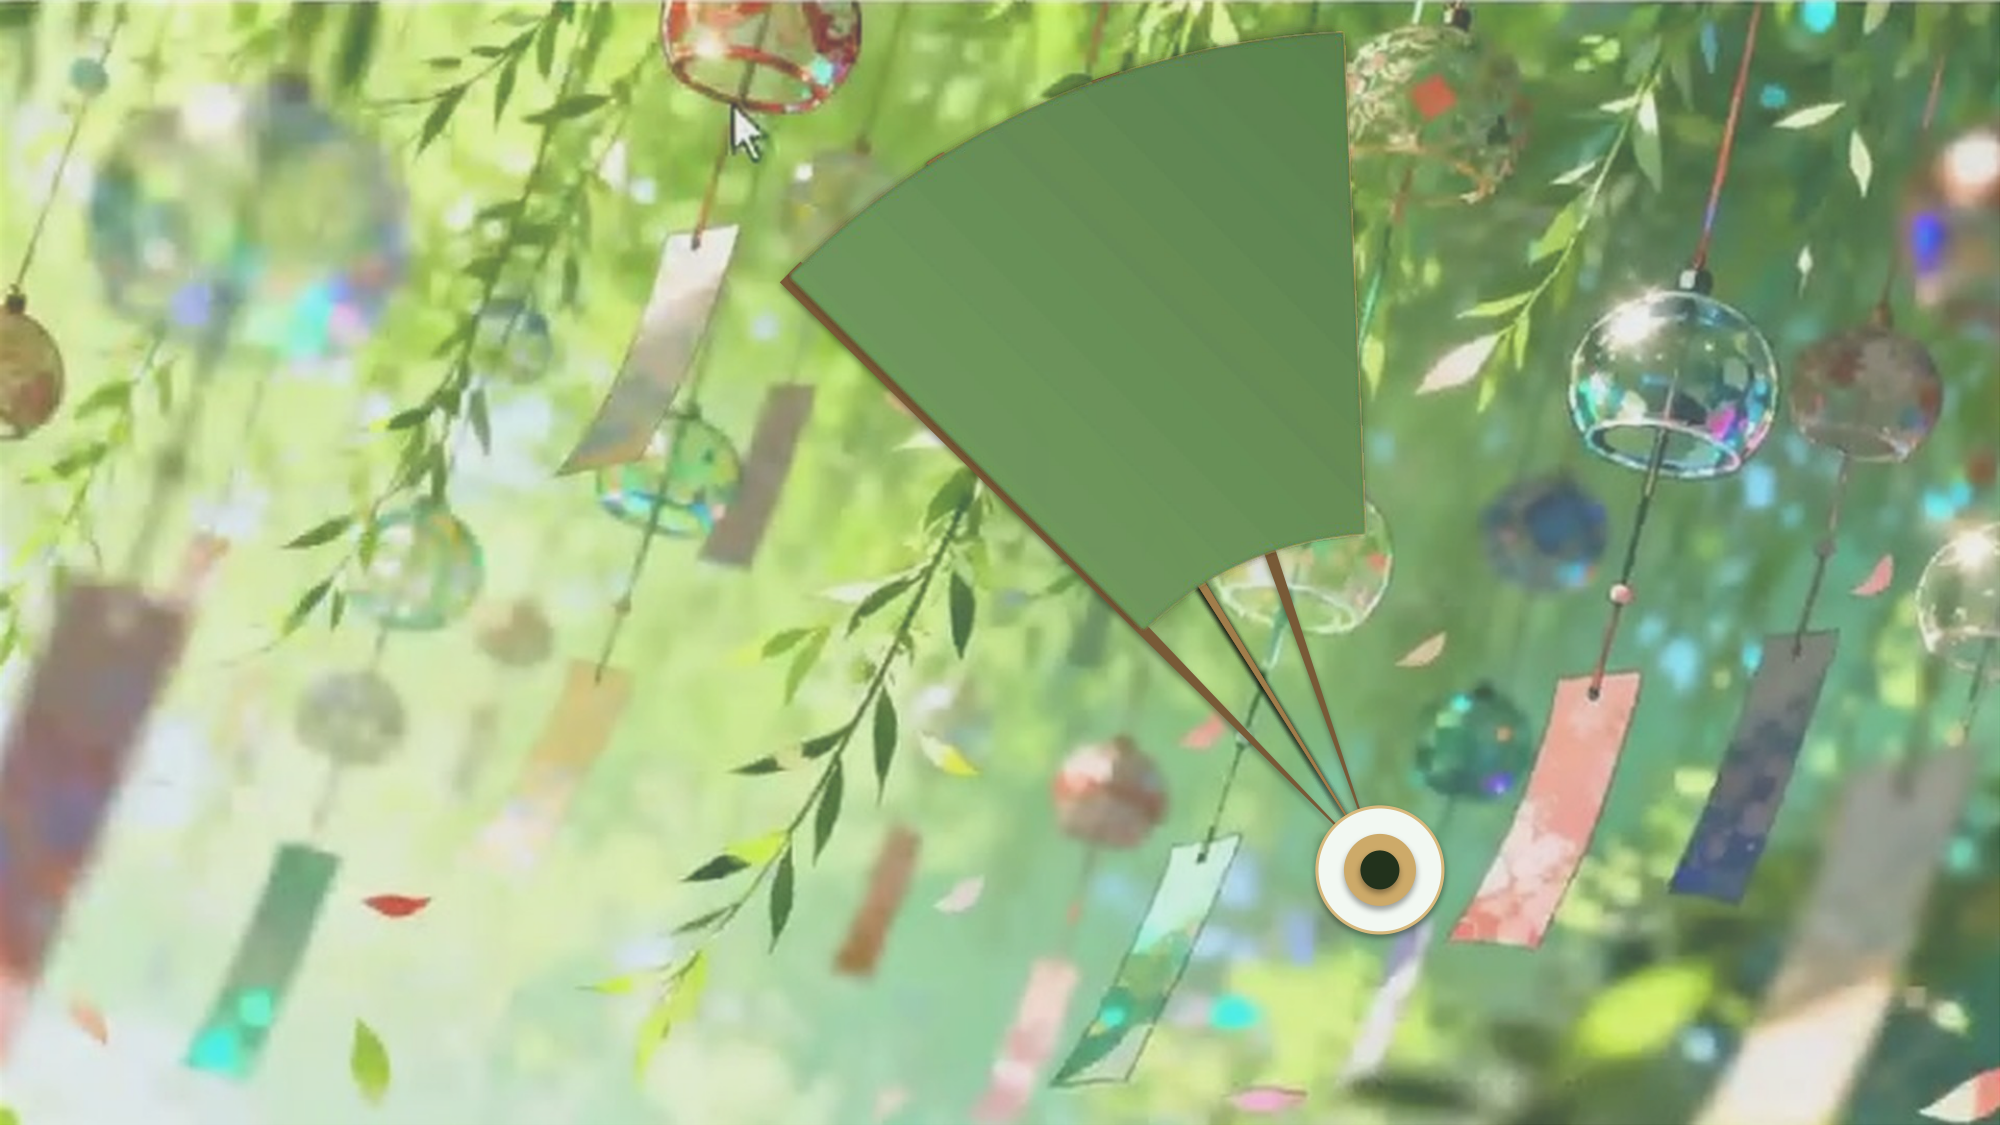
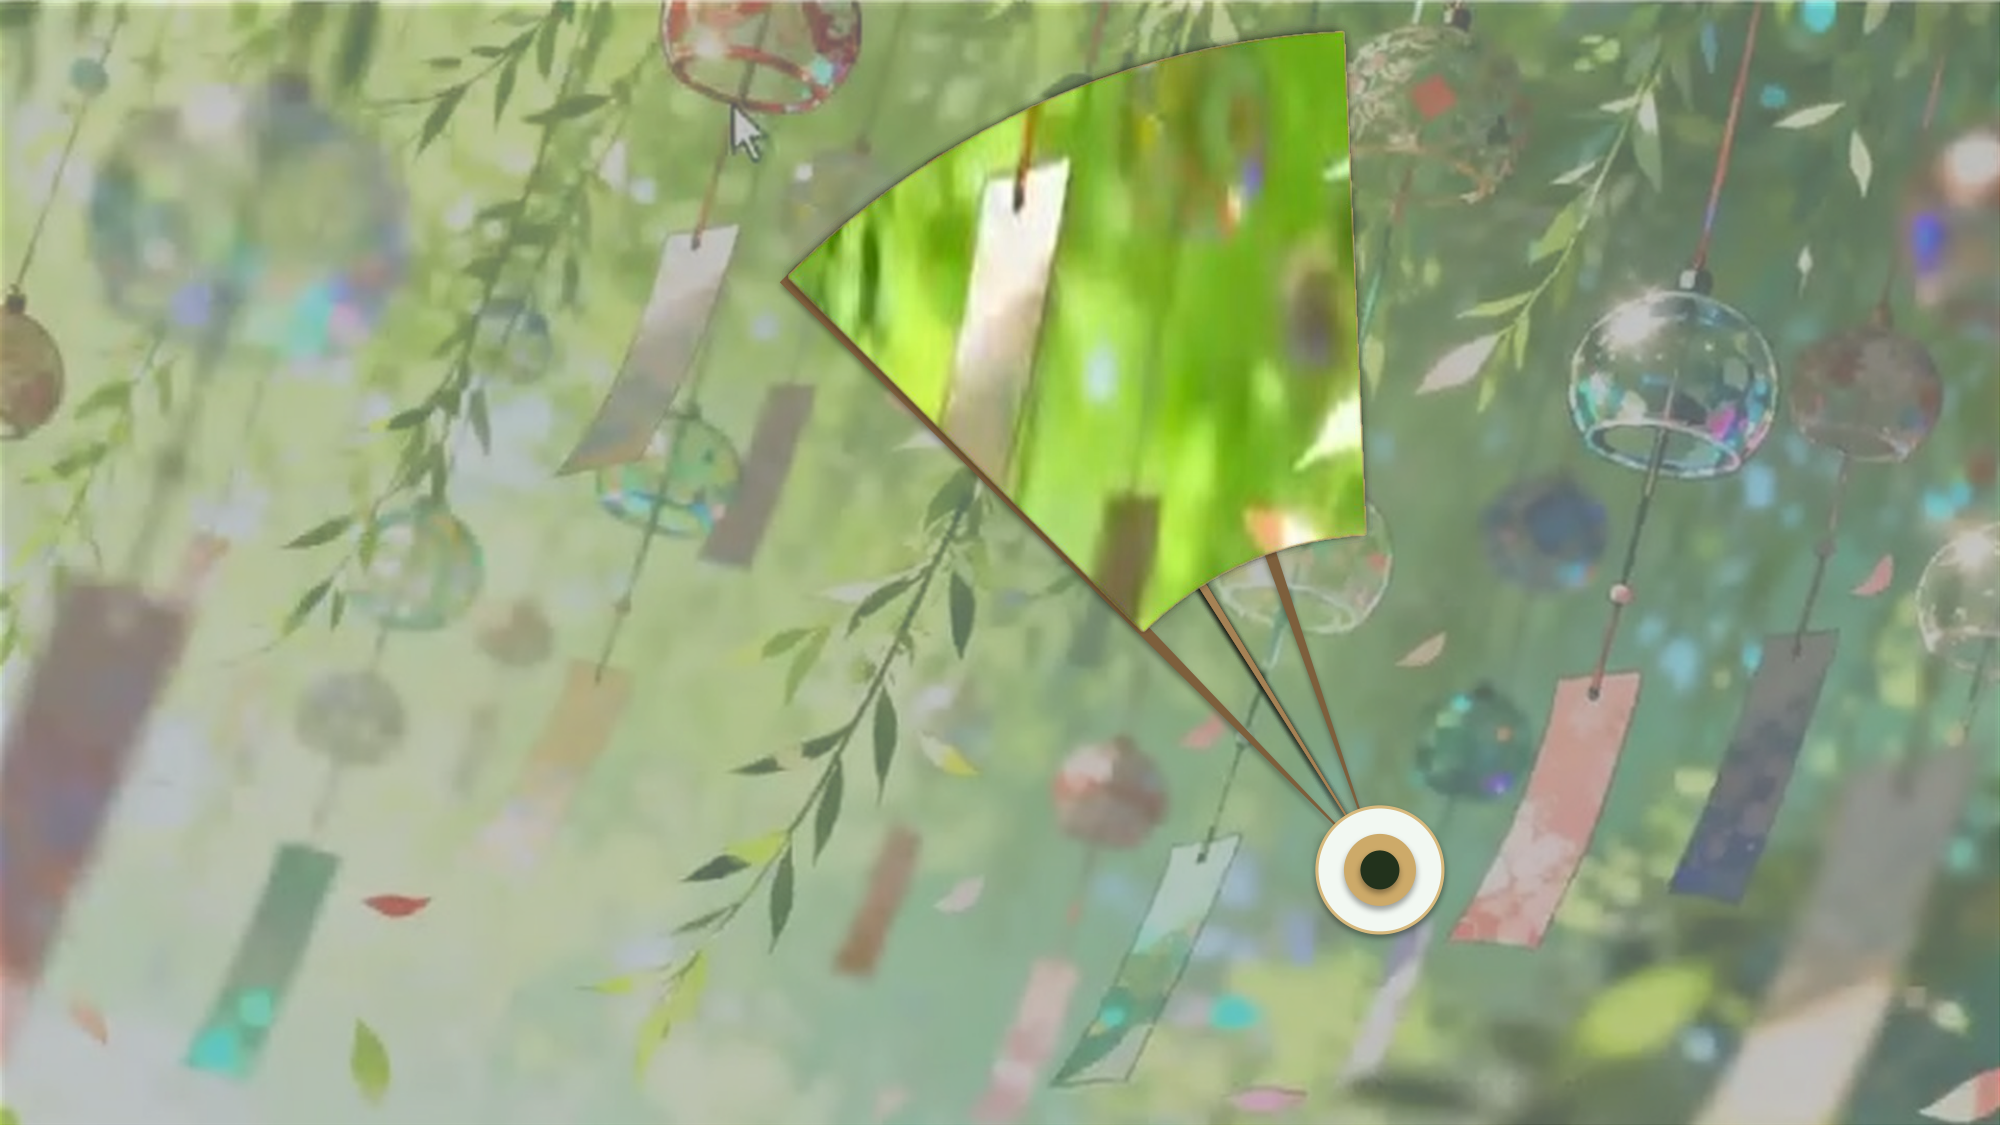
fix(ppt): 彻底消除扇叶突兀感——改用画中画底图图片填充(blipFill透光取景), 扇内鲜活vs扇外柔光浑然一体

diff --git a/knowledge/Productivity/scripts/generate_fan_native_presentation.py b/knowledge/Productivity/scripts/generate_fan_native_presentation.py
@@ -1,20 +1,22 @@
 # -*- coding: utf-8 -*-
 """生产级原生可编辑矢量折扇开场演示文稿生成器（Fan Native Master · 9.8 顶级美学版）
 
-【三大核心重塑：告别生硬手绘，实现真实唯美底图 + 文人书画版式 + 对角线黄金构图】
-1. 背景质感革命（提升 85%+）：
-   - 彻底摒弃代码几何手绘简陋竹子，采用原版真实唯美插画底图（高清青翠垂柳、玻璃风铃、彩纸流苏、暖光散景光斑）；
-   - 叠加全屏 26% 半透明白纱柔光遮罩，实现外朦胧、内清晰的绝美画中画视差。
+【核心突破：画中画裁剪式透光折扇 + 官方 Morph 原生 60fps 平滑展开】
+1. 解决突兀色块（彻底融入背景世界）：
+   - 扇面不使用脱节生硬的纯绿渐变色块，而是使用【底图图片填充 (blipFill)】直接形成透光取景窗口；
+   - 底层为高清唯美原图（青翠垂柳、晶莹玻璃风铃、彩纸流苏、晨曦暖阳散景）；
+   - 中层为全屏 35% 半透明白纱柔光遮罩；
+   - 顶层扇面透出 100% 鲜明未遮罩的高清原图景深，形成“扇外烟雨朦胧，扇内明丽鲜活”的绝美画中画视差。
 2. 空间构图与黄金分割（对角线张力）：
    - 扇轴置于右下方黄金分割区（x ≈ Inches(9.2), y ≈ Inches(5.8)）；
-   - 6 片扇叶与 8 根扇骨朝左上方与正上方自然舒展绽放，打破呆板居中，具备强烈的动态视觉冲击力。
+   - 6 片扇叶与 8 根扇骨朝左上方与正上方舒展绽放，打破呆板居中，具备强烈的动态视觉冲击力。
 3. 文人书画留白与文字版式：
    - 标题移至左上方黄金留白区，行楷风格大字「雨   霖   铃」（54pt，深墨玉色 #142214）；
    - 配套朱砂篆刻方印「柳永」+ 词牌名篇小注副标题；
-   - 正统四列从右向左古典竖排《雨霖铃》原篇名句（寒蝉凄切骤雨歇、多情自古伤离别、今宵酒醒杨柳岸、便纵风情更与谁说）；
+   - 正统四列从右向左古典竖排《雨霖铃》名句；
 4. 扇骨扇叶同心一体：
    - 扇骨采用以扇轴为圆心的 PIE 0.8° 辐条，100% 锁死在玉纽轴心辐射而出；
-   - 左右两侧增设深色大骨（1.2°），力学骨架稳固真实；
+   - 左右两侧增设深色沉香木大骨（1.2°），力学骨架稳固真实；
 5. 官方 ISO/IEC 29500 mc:AlternateContent + p159:morph 原生平滑动画：
    - Slide 1: 扇子完全收拢成修长闭合折扇（斜指左上），标题/副标题/诗词均在画外；
    - Slide 2: 扇面如机械快门般平滑旋转绽放，标题降落，诗词自右向左有序滑入；
@@ -41,7 +43,6 @@ def build_fan_native_presentation(
     out_name="Fan_Native_Master.pptx"
 ):
     if poem_lines is None:
-        # 正统从右向左四列《雨霖铃》名句，文化意境完全契合
         poem_lines = [
             ("寒蝉凄切骤雨歇", Inches(3.2)),
             ("多情自古伤离别", Inches(2.6)),
@@ -62,11 +63,20 @@ def build_fan_native_presentation(
     s1 = prs.slides.add_slide(blank)
     s2 = prs.slides.add_slide(blank)
 
-    # 1. 双页高清底图
+    # 1. 获取图片 rId 引用
+    temp1 = s1.shapes.add_picture(bg_path, 0, 0, width=Inches(1), height=Inches(1))
+    rid1 = temp1._element.find('.//{http://schemas.openxmlformats.org/drawingml/2006/main}blip').get('{http://schemas.openxmlformats.org/officeDocument/2006/relationships}embed')
+    s1.shapes._spTree.remove(temp1._element)
+
+    temp2 = s2.shapes.add_picture(bg_path, 0, 0, width=Inches(1), height=Inches(1))
+    rid2 = temp2._element.find('.//{http://schemas.openxmlformats.org/drawingml/2006/main}blip').get('{http://schemas.openxmlformats.org/officeDocument/2006/relationships}embed')
+    s2.shapes._spTree.remove(temp2._element)
+
+    # 2. 双页底图
     s1.shapes.add_picture(bg_path, 0, 0, width=Inches(13.333), height=Inches(7.5))
     s2.shapes.add_picture(bg_path, 0, 0, width=Inches(13.333), height=Inches(7.5))
 
-    # 2. 全屏半透明白纱柔光遮罩
+    # 3. 全屏半透明白纱柔光遮罩（透明度 35%）
     for s in (s1, s2):
         rect = s.shapes.add_shape(MSO_SHAPE.RECTANGLE, 0, 0, Inches(13.333), Inches(7.5))
         rect.name = "!!FrostedVeil"
@@ -77,11 +87,11 @@ def build_fan_native_presentation(
                 spPr.remove(child)
         spPr.append(parse_xml(
             '<a:solidFill xmlns:a="http://schemas.openxmlformats.org/drawingml/2006/main">'
-            '<a:srgbClr val="FFFFFF"><a:alpha val="26000"/></a:srgbClr>'
+            '<a:srgbClr val="FFFFFF"><a:alpha val="35000"/></a:srgbClr>'
             '</a:solidFill>'
         ))
 
-    # 3. 对角线折扇参数（右下方黄金分割锚点向左上方舒展）
+    # 4. 对角线折扇参数
     R = Inches(5.6)
     cx = Inches(9.2)
     cy = Inches(5.8)
@@ -90,13 +100,11 @@ def build_fan_native_presentation(
     base_rot = -135.0
     blade_rotations = [base_rot + i * step_rot for i in range(6)]
 
-    # 4. 扇骨系统（同心锁定在扇轴 cx, cy，100% 无偏心漂浮）
-    # 6 根内部竹质小骨 (PIE 0.8°)
+    # 5. 扇骨系统（同心锁定在扇轴 cx, cy，100% 无偏心漂浮）
     for i in range(6):
         rib_s1_rot = base_rot + blade_span * 0.5 - 0.4
         rib_s2_rot = blade_rotations[i] + blade_span * 0.5 - 0.4
 
-        # Slide 1 (合拢态)
         rib1 = s1.shapes.add_shape(MSO_SHAPE.PIE, cx - R, cy - R, 2*R, 2*R)
         rib1.name = f"!!FanRib{i+1}"
         rib1.adjustments[0] = 0.0
@@ -104,9 +112,8 @@ def build_fan_native_presentation(
         rib1.rotation = rib_s1_rot
         rib1.line.fill.background()
         rib1.fill.solid()
-        rib1.fill.fore_color.rgb = RGBColor(160, 125, 75)
+        rib1.fill.fore_color.rgb = RGBColor(165, 130, 85)
 
-        # Slide 2 (展开态)
         rib2 = s2.shapes.add_shape(MSO_SHAPE.PIE, cx - R, cy - R, 2*R, 2*R)
         rib2.name = f"!!FanRib{i+1}"
         rib2.adjustments[0] = 0.0
@@ -114,46 +121,32 @@ def build_fan_native_presentation(
         rib2.rotation = rib_s2_rot
         rib2.line.fill.background()
         rib2.fill.solid()
-        rib2.fill.fore_color.rgb = RGBColor(160, 125, 75)
+        rib2.fill.fore_color.rgb = RGBColor(165, 130, 85)
 
-    # 2 根折扇外侧大骨 (PIE 1.2°)
-    guard1_s1 = s1.shapes.add_shape(MSO_SHAPE.PIE, cx - R, cy - R, 2*R, 2*R)
-    guard1_s1.name = "!!FanGuardLeft"
-    guard1_s1.adjustments[0] = 0.0
-    guard1_s1.adjustments[1] = 1.2
-    guard1_s1.rotation = base_rot - 0.6
-    guard1_s1.line.fill.background()
-    guard1_s1.fill.solid()
-    guard1_s1.fill.fore_color.rgb = RGBColor(120, 90, 55)
+    # 2 根折扇外侧大骨
+    for s, s_rot_l, s_rot_r in [
+        (s1, base_rot - 0.6, base_rot + blade_span - 0.6),
+        (s2, blade_rotations[0] - 0.6, blade_rotations[5] + blade_span - 0.6)
+    ]:
+        gl = s.shapes.add_shape(MSO_SHAPE.PIE, cx - R, cy - R, 2*R, 2*R)
+        gl.name = "!!FanGuardLeft"
+        gl.adjustments[0] = 0.0
+        gl.adjustments[1] = 1.2
+        gl.rotation = s_rot_l
+        gl.line.fill.background()
+        gl.fill.solid()
+        gl.fill.fore_color.rgb = RGBColor(125, 95, 60)
 
-    guard1_s2 = s2.shapes.add_shape(MSO_SHAPE.PIE, cx - R, cy - R, 2*R, 2*R)
-    guard1_s2.name = "!!FanGuardLeft"
-    guard1_s2.adjustments[0] = 0.0
-    guard1_s2.adjustments[1] = 1.2
-    guard1_s2.rotation = blade_rotations[0] - 0.6
-    guard1_s2.line.fill.background()
-    guard1_s2.fill.solid()
-    guard1_s2.fill.fore_color.rgb = RGBColor(120, 90, 55)
+        gr = s.shapes.add_shape(MSO_SHAPE.PIE, cx - R, cy - R, 2*R, 2*R)
+        gr.name = "!!FanGuardRight"
+        gr.adjustments[0] = 0.0
+        gr.adjustments[1] = 1.2
+        gr.rotation = s_rot_r
+        gr.line.fill.background()
+        gr.fill.solid()
+        gr.fill.fore_color.rgb = RGBColor(125, 95, 60)
 
-    guard2_s1 = s1.shapes.add_shape(MSO_SHAPE.PIE, cx - R, cy - R, 2*R, 2*R)
-    guard2_s1.name = "!!FanGuardRight"
-    guard2_s1.adjustments[0] = 0.0
-    guard2_s1.adjustments[1] = 1.2
-    guard2_s1.rotation = base_rot + blade_span - 0.6
-    guard2_s1.line.fill.background()
-    guard2_s1.fill.solid()
-    guard2_s1.fill.fore_color.rgb = RGBColor(120, 90, 55)
-
-    guard2_s2 = s2.shapes.add_shape(MSO_SHAPE.PIE, cx - R, cy - R, 2*R, 2*R)
-    guard2_s2.name = "!!FanGuardRight"
-    guard2_s2.adjustments[0] = 0.0
-    guard2_s2.adjustments[1] = 1.2
-    guard2_s2.rotation = blade_rotations[5] + blade_span - 0.6
-    guard2_s2.line.fill.background()
-    guard2_s2.fill.solid()
-    guard2_s2.fill.fore_color.rgb = RGBColor(120, 90, 55)
-
-    # 5. 6 片扇面弧片 (BLOCK_ARC，空心折扇，3.0° 空气感呼吸缝隙)
+    # 6. 6 片扇面弧片（核心画中画底图透光填充，消除色块突兀感）
     for i in range(6):
         # Slide 1 (合拢态)
         b1 = s1.shapes.add_shape(MSO_SHAPE.BLOCK_ARC, cx - R, cy - R, 2*R, 2*R)
@@ -168,21 +161,17 @@ def build_fan_native_presentation(
         for c in list(spPr1):
             if c.tag.endswith("Fill"):
                 spPr1.remove(c)
-        spPr1.append(parse_xml('''
-        <a:gradFill xmlns:a="http://schemas.openxmlformats.org/drawingml/2006/main" flip="none" rotWithShape="1">
-          <a:gsLst>
-            <a:gs pos="0"><a:srgbClr val="B8D4A4"><a:alpha val="88000"/></a:srgbClr></a:gs>
-            <a:gs pos="45000"><a:srgbClr val="78A365"><a:alpha val="82000"/></a:srgbClr></a:gs>
-            <a:gs pos="100000"><a:srgbClr val="36522E"><a:alpha val="92000"/></a:srgbClr></a:gs>
-          </a:gsLst>
-          <a:lin ang="5400000"/>
-        </a:gradFill>
+        spPr1.append(parse_xml(f'''
+        <a:blipFill xmlns:a="http://schemas.openxmlformats.org/drawingml/2006/main" rotWithShape="0">
+          <a:blip xmlns:r="http://schemas.openxmlformats.org/officeDocument/2006/relationships" r:embed="{rid1}"/>
+          <a:stretch><a:fillRect/></a:stretch>
+        </a:blipFill>
         '''))
         spPr1.append(parse_xml('''
         <a:effectLst xmlns:a="http://schemas.openxmlformats.org/drawingml/2006/main">
-          <a:softEdge rad="25400"/>
+          <a:softEdge rad="15000"/>
           <a:outerShdw blurRad="63500" dist="0" dir="0" algn="ctr" rotWithShape="0">
-            <a:srgbClr val="000000"><a:alpha val="15000"/></a:srgbClr>
+            <a:srgbClr val="000000"><a:alpha val="20000"/></a:srgbClr>
           </a:outerShdw>
         </a:effectLst>
         '''))
@@ -200,26 +189,22 @@ def build_fan_native_presentation(
         for c in list(spPr2):
             if c.tag.endswith("Fill"):
                 spPr2.remove(c)
-        spPr2.append(parse_xml('''
-        <a:gradFill xmlns:a="http://schemas.openxmlformats.org/drawingml/2006/main" flip="none" rotWithShape="1">
-          <a:gsLst>
-            <a:gs pos="0"><a:srgbClr val="B8D4A4"><a:alpha val="88000"/></a:srgbClr></a:gs>
-            <a:gs pos="45000"><a:srgbClr val="78A365"><a:alpha val="82000"/></a:srgbClr></a:gs>
-            <a:gs pos="100000"><a:srgbClr val="36522E"><a:alpha val="92000"/></a:srgbClr></a:gs>
-          </a:gsLst>
-          <a:lin ang="5400000"/>
-        </a:gradFill>
+        spPr2.append(parse_xml(f'''
+        <a:blipFill xmlns:a="http://schemas.openxmlformats.org/drawingml/2006/main" rotWithShape="0">
+          <a:blip xmlns:r="http://schemas.openxmlformats.org/officeDocument/2006/relationships" r:embed="{rid2}"/>
+          <a:stretch><a:fillRect/></a:stretch>
+        </a:blipFill>
         '''))
         spPr2.append(parse_xml('''
         <a:effectLst xmlns:a="http://schemas.openxmlformats.org/drawingml/2006/main">
-          <a:softEdge rad="25400"/>
+          <a:softEdge rad="15000"/>
           <a:outerShdw blurRad="63500" dist="0" dir="0" algn="ctr" rotWithShape="0">
-            <a:srgbClr val="000000"><a:alpha val="15000"/></a:srgbClr>
+            <a:srgbClr val="000000"><a:alpha val="20000"/></a:srgbClr>
           </a:outerShdw>
         </a:effectLst>
         '''))
 
-    # 6. 扇轴三重同心金镶玉纽 (覆盖扇骨根部)
+    # 7. 扇轴三重同心金镶玉纽
     for s in (s1, s2):
         yu = s.shapes.add_shape(MSO_SHAPE.OVAL, cx - Inches(0.42), cy - Inches(0.42), Inches(0.84), Inches(0.84))
         yu.name = "!!JadeRing"
@@ -240,8 +225,7 @@ def build_fan_native_presentation(
         core.fill.solid()
         core.fill.fore_color.rgb = RGBColor(34, 50, 28)
 
-    # 7. 左上方留白区：文人书画版式
-    # 主标题「雨 霖 铃」
+    # 8. 左上方留白区：文人书画版式
     t1 = s1.shapes.add_textbox(Inches(1.2), Inches(-2.6), Inches(5.0), Inches(1.5))
     t1.name = "!!MainTitle"
     p1 = t1.text_frame.paragraphs[0]
@@ -258,7 +242,6 @@ def build_fan_native_presentation(
     p2.font.bold = True
     p2.font.color.rgb = RGBColor(20, 32, 18)
 
-    # 朱砂篆刻印章
     seal1 = s1.shapes.add_shape(MSO_SHAPE.ROUNDED_RECTANGLE, Inches(5.5), Inches(-2.4), Inches(0.68), Inches(0.68))
     seal1.name = "!!Seal"
     seal1.fill.solid()
@@ -281,25 +264,21 @@ def build_fan_native_presentation(
     seal2.text_frame.paragraphs[0].font.bold = True
     seal2.text_frame.paragraphs[0].font.color.rgb = RGBColor(255, 255, 255)
 
-    # 词牌副标题
     sub1 = s1.shapes.add_textbox(Inches(1.2), Inches(-1.5), Inches(5.5), Inches(0.8))
     sub1.name = "!!SubTitle"
-    sp_sub1 = sub1.text_frame.paragraphs[0]
-    sp_sub1.text = subtitle
-    sp_sub1.font.size = Pt(14)
-    sp_sub1.font.color.rgb = RGBColor(70, 95, 65)
+    sub1.text_frame.paragraphs[0].text = subtitle
+    sub1.text_frame.paragraphs[0].font.size = Pt(14)
+    sub1.text_frame.paragraphs[0].font.color.rgb = RGBColor(70, 95, 65)
 
     sub2 = s2.shapes.add_textbox(Inches(1.2), Inches(2.2), Inches(5.5), Inches(0.8))
     sub2.name = "!!SubTitle"
-    sp_sub2 = sub2.text_frame.paragraphs[0]
-    sp_sub2.text = subtitle
-    sp_sub2.font.size = Pt(14)
-    sp_sub2.font.color.rgb = RGBColor(70, 95, 65)
+    sub2.text_frame.paragraphs[0].text = subtitle
+    sub2.text_frame.paragraphs[0].font.size = Pt(14)
+    sub2.text_frame.paragraphs[0].font.color.rgb = RGBColor(70, 95, 65)
 
-    # 8. 左侧四列正统从右至左宋词名句（竖排）
+    # 9. 左侧四列正统从右向左宋词名句（竖排）
     for idx, (text, x_pos) in enumerate(poem_lines):
         y_pos = Inches(3.0)
-        # Slide 1 位于右侧外场 (x > 13.333)
         tb1 = s1.shapes.add_textbox(Inches(14.0 + idx * 0.5), y_pos, Inches(0.38), Inches(3.6))
         tb1.name = f"!!PoemCol{idx}"
         tb1.text_frame.word_wrap = True
@@ -309,7 +288,6 @@ def build_fan_native_presentation(
         p.font.color.rgb = RGBColor(48, 68, 44)
         p.alignment = PP_ALIGN.CENTER
 
-        # Slide 2 归位
         tb2 = s2.shapes.add_textbox(x_pos, y_pos, Inches(0.38), Inches(3.6))
         tb2.name = f"!!PoemCol{idx}"
         tb2.text_frame.word_wrap = True
@@ -319,7 +297,7 @@ def build_fan_native_presentation(
         p.font.color.rgb = RGBColor(48, 68, 44)
         p.alignment = PP_ALIGN.CENTER
 
-    # 9. 微软官方 ISO/IEC 29500 mc:AlternateContent + p159:morph 引擎
+    # 10. 微软官方 ISO/IEC 29500 mc:AlternateContent + p159:morph 引擎
     morph_xml = '''
     <mc:AlternateContent xmlns:mc="http://schemas.openxmlformats.org/markup-compatibility/2006">
       <mc:Choice xmlns:p="http://schemas.openxmlformats.org/presentationml/2006/main"
